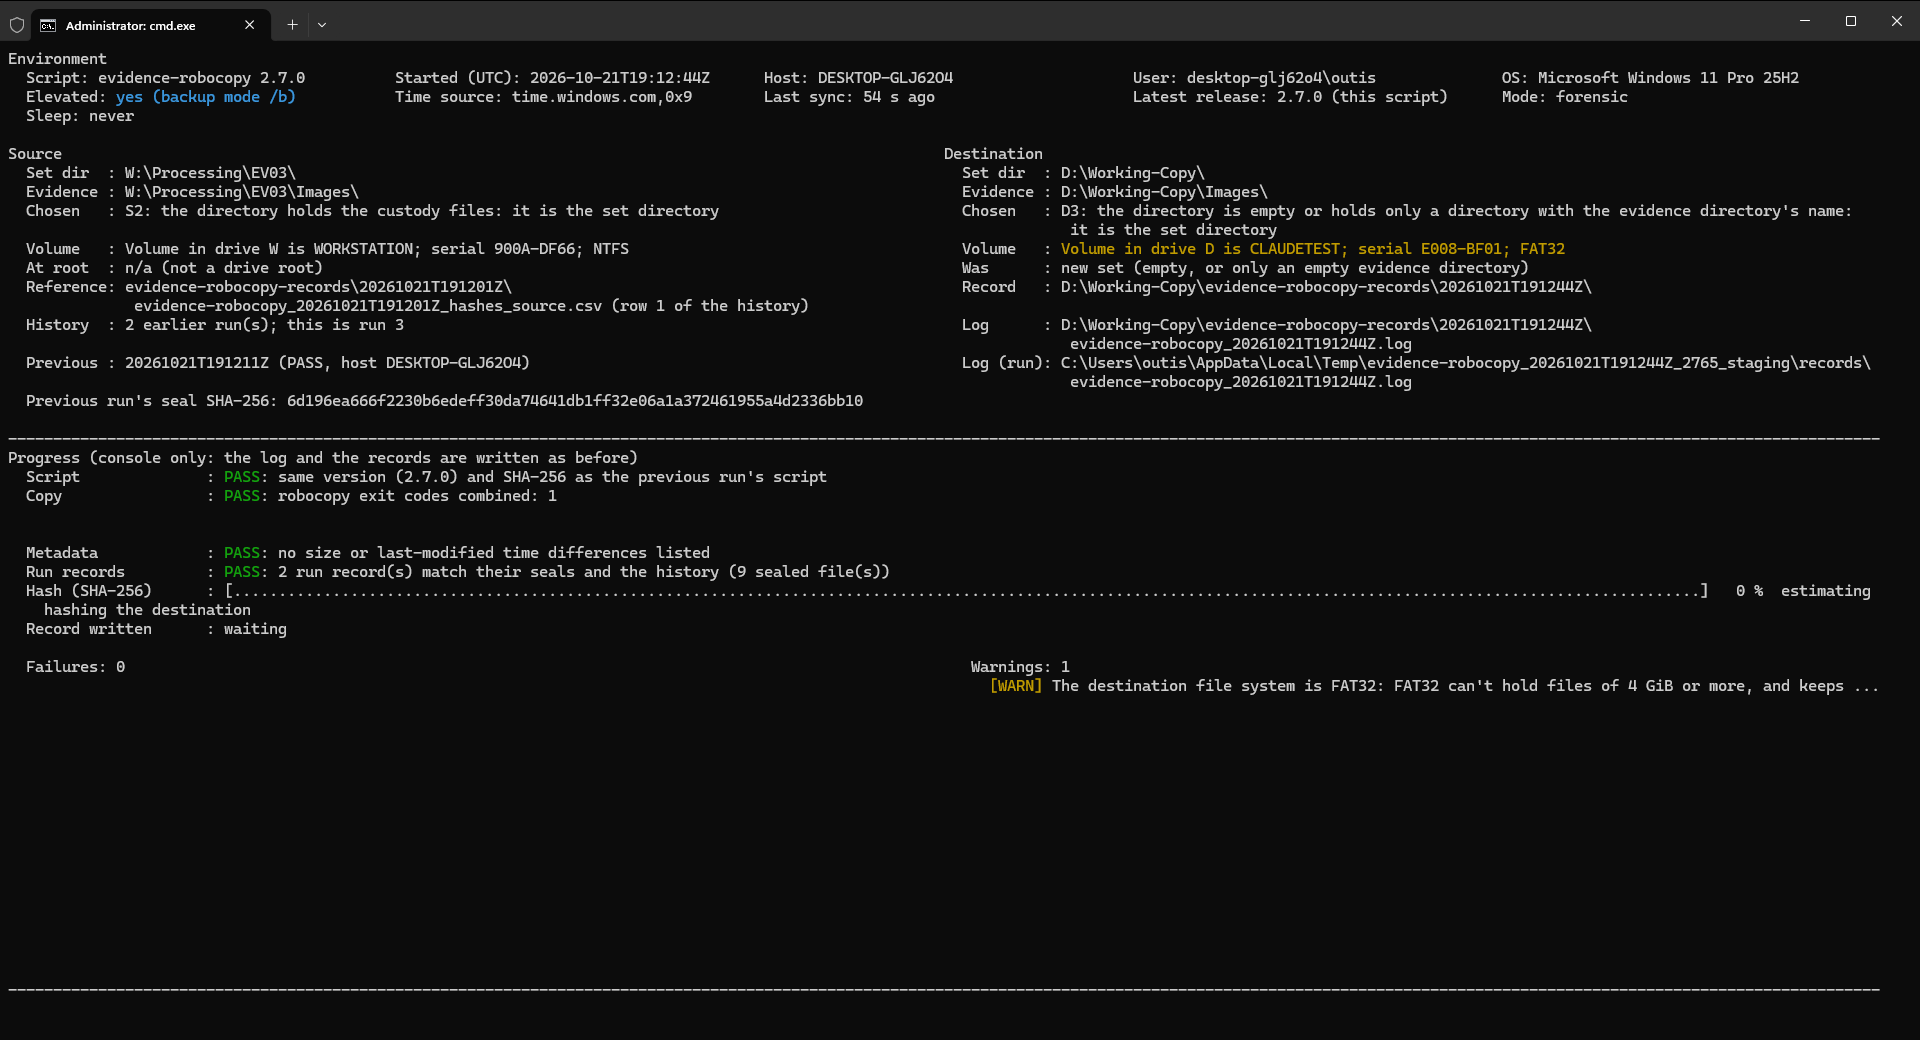
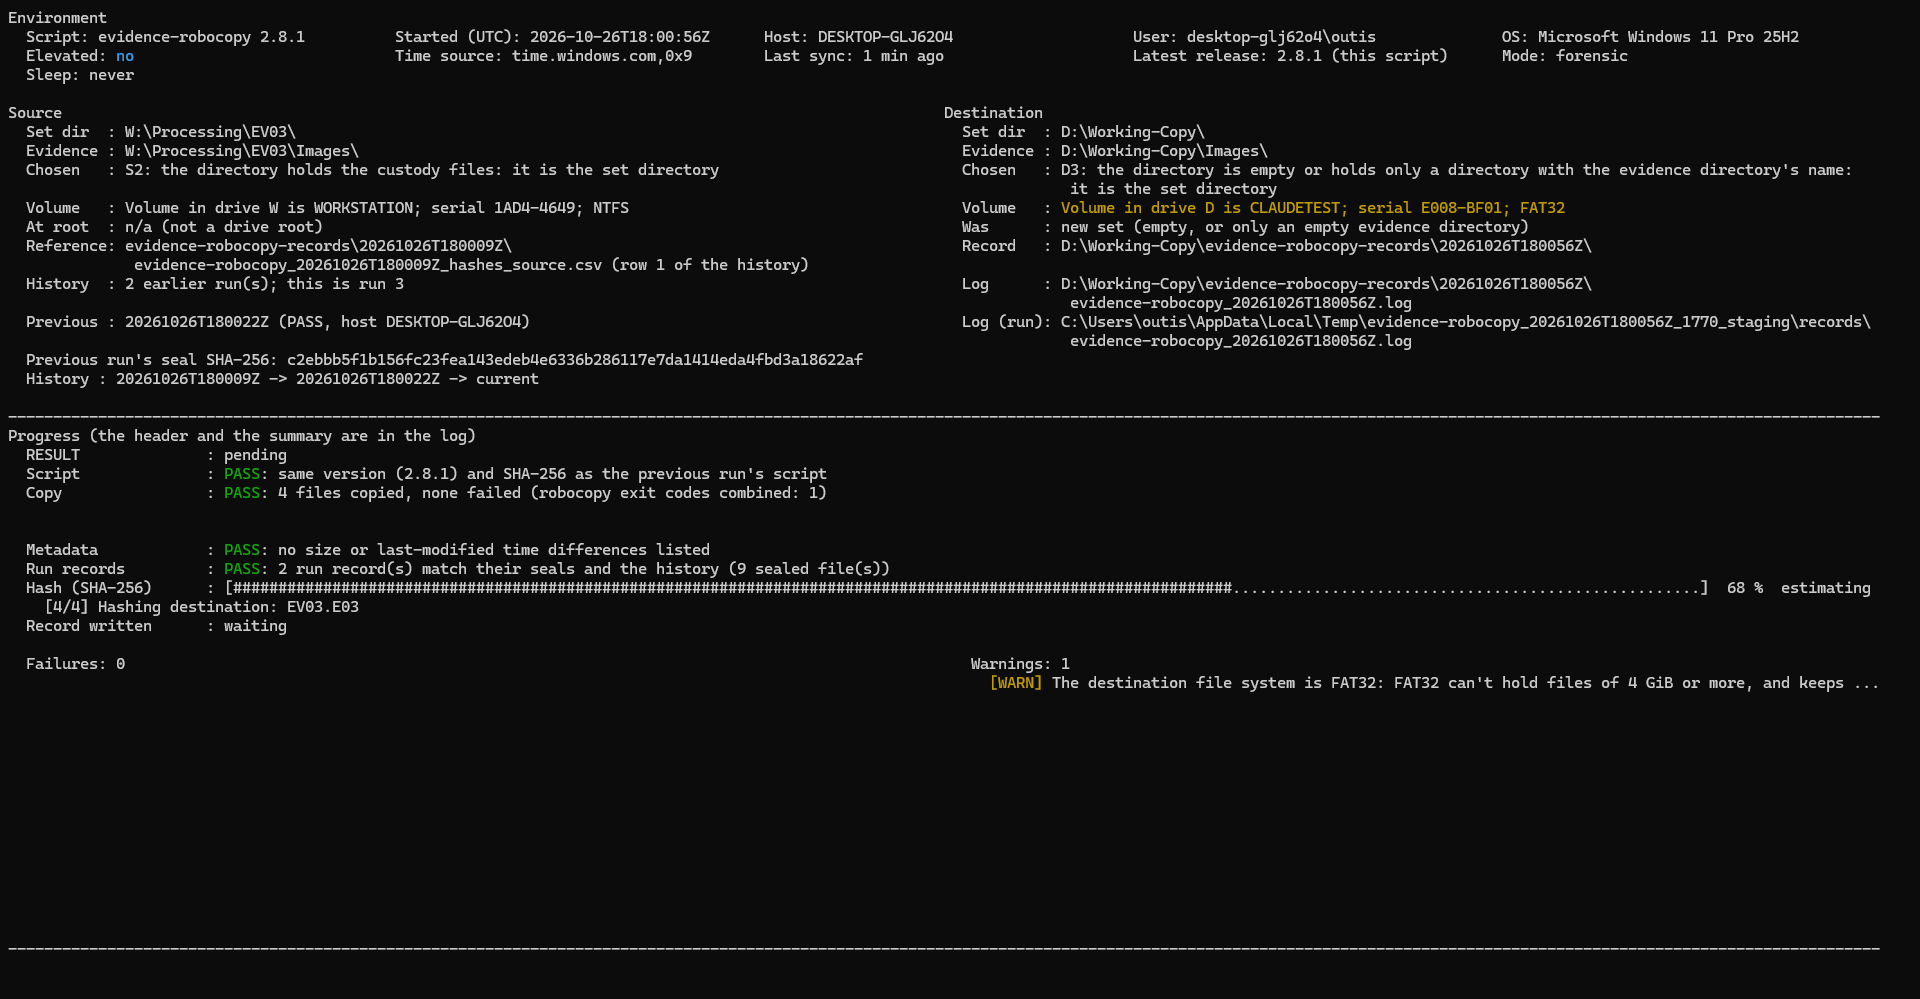
README: the 2.8.1 demo and pictures

diff --git a/README.md b/README.md
@@ -14,7 +14,7 @@ It is a batch file on purpose: it uses only tools built into Windows and runs
 wherever robocopy does, including workstations where PowerShell or `.ps1`
 scripts are restricted, so it can travel with the evidence too.
 
-<img src="docs/images/demo.webp" alt="Windows Terminal, maximised: a forensic copy of an EWF image set from W:\Processing\EV03 to a working copy on a USB drive: the source and destination typed at the prompts, the header, then the live display on its own screen across the window (the environment, the Source and Destination columns with the destination's FAT32 volume in yellow, each check's status, the copy's bar moving through three segments, the failures and warnings lists side by side), the checks passing one by one, and back on the normal screen the summary and the result block, RESULT: PASS (exit code 0)">
+<img src="docs/images/demo.webp" alt="Windows Terminal, maximised: a forensic copy of an EWF image set from W:\Processing\EV03 to a working copy on a USB drive: the source and destination typed at the prompts, then the live display on its own screen across the window (the environment, the Source and Destination columns with the destination's FAT32 volume in yellow, the run history, the RESULT row pending, each check's status, the copy's bar moving through three segments, the failures and warnings lists side by side), the checks passing one by one, the hash bar moving segment by segment, the last frame with RESULT: PASS (exit code 0), the seal and the log, and after a key the result block on the normal screen">
 
 A forensic copy to a USB drive in a maximised Windows Terminal window, with
 the live display. The copy is sped up ten times; the prompts, the checks and
@@ -165,9 +165,9 @@ the result block play at real speed.
   robocopy's per-file lines, a line per hashed file, the summary), e.g.
   when the output is captured.
 
-  <img src="docs/images/live-display.webp" alt="Windows Terminal, maximised: the live display after the copy: the environment cells, the Source and Destination columns with the destination's FAT32 volume in yellow, the Script, Copy, Metadata and Run records checks each PASS, the Hash (SHA-256) bar starting on the destination, Record written waiting, no failures and the FAT32 warning">
+  <img src="docs/images/live-display.webp" alt="Windows Terminal, maximised: the live display after the copy: the environment cells, the Source and Destination columns with the destination's FAT32 volume in yellow, the run history, the RESULT row pending, the Script, Copy, Metadata and Run records checks each PASS, the Hash (SHA-256) bar at 68 % on the destination's last segment, Record written waiting, no failures and the FAT32 warning">
 
-  *The live display as hashing starts, after the copy.*
+  *The live display part-way through hashing, after the copy.*
 - **Update check.** Every run asks github.com once which release is the
   latest (a header-only request to the releases page, with a 3 s limit,
   made in the background while the prompts are answered) and warns, in
